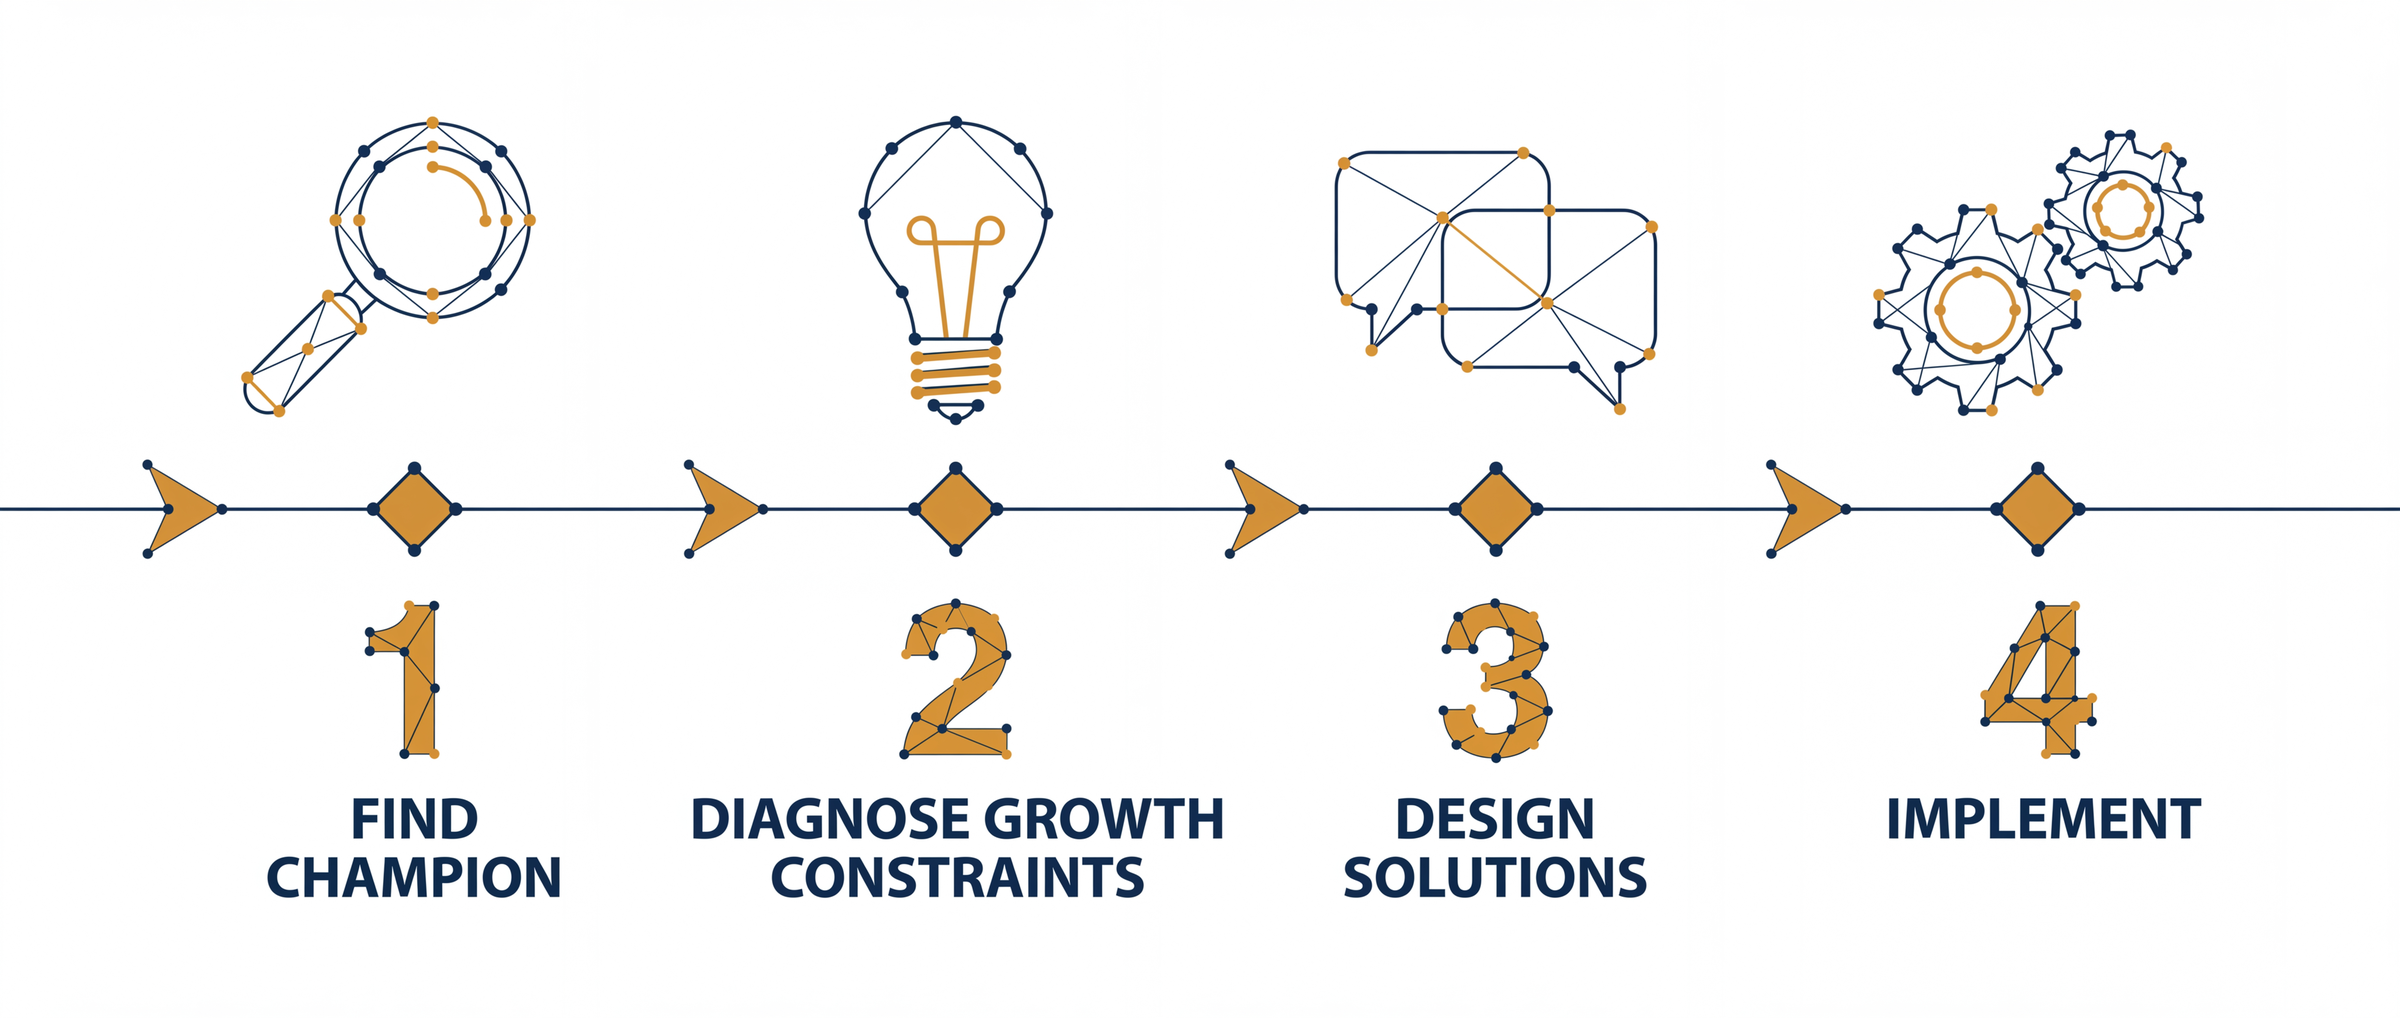
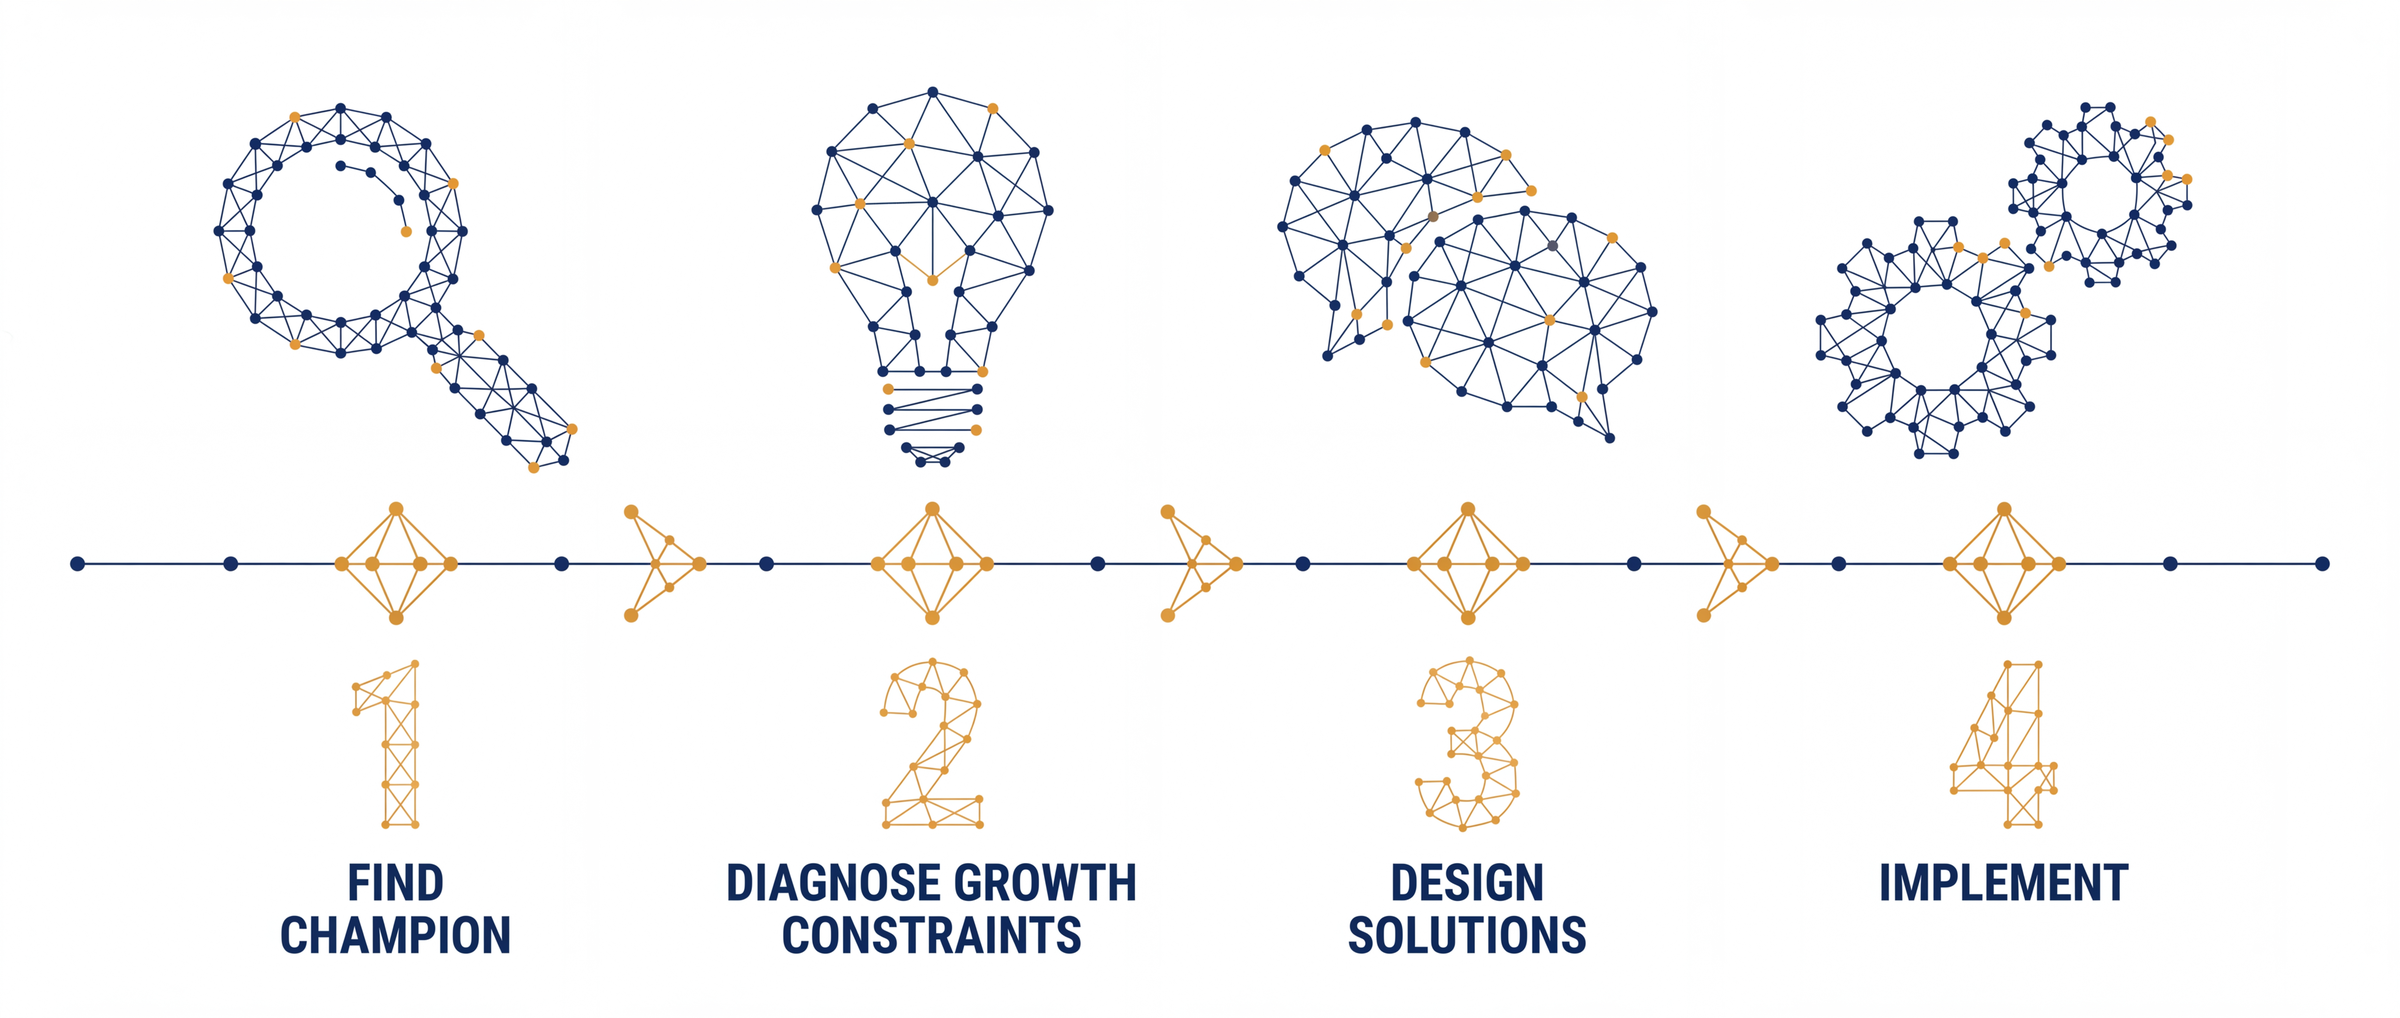
Rework the process diagram to match the rest of the set
Owner rejected the first version as not matching. Two concrete differences, both
now fixed and both measurable rather than matters of taste:

1. SOLID FILLS. In the accepted diagrams every element without exception is an
   open mesh of dots and hairline links. The first version returned the spine
   diamonds, the arrowheads and the numerals as solid filled amber shapes, and
   drew the icons small and dense -- an icon set with dots on it, not a node mesh.
   "Constellation style" in the lead evidently never reached those elements, so
   the prompt now names them individually as meshes.
2. COLOUR BALANCE. The accepted diagram measures 22% amber by ink; the rejected
   version was 34%, and round 2 still rendered whole icons in amber. Navy carries
   every icon, lifted by scattered amber dots, and amber is reserved for the
   spine, arrowheads and numerals. The delivered render measures 23%.

Also passes the accepted diagram in as an image_input style reference, which the
model takes alongside the prompt. That needed a plumbing fix: a base64 data URI
pushes the JSON body past ARG_MAX, so curl gets the body as a file rather than on
the command line.

Labels verified at native resolution again; all four correct.

Claude-Session: https://claude.ai/code/session_0162H81Q7RJ9p5jM9hp3XjJH

diff --git a/scripts/gen_diagram_raster.py b/scripts/gen_diagram_raster.py
@@ -8,7 +8,7 @@
 # Ideogram was the strongest speller in the label bake-off, nano-banana-pro the highest
 # resolution. If none can spell it, the fallback is to generate the artwork text-free and
 # set the labels as real type, exactly as the Tanda labels ended up.
-import json, os, subprocess, sys, time
+import json, os, subprocess, sys, tempfile, time
 from pathlib import Path
 
 ROOT = Path(__file__).resolve().parents[1]
@@ -119,6 +119,41 @@ TEXT_STEPS = (
     "warm amber gold and the labels deep navy. Each phrase appears exactly once, no word is "
     "repeated and no other words are added.")
 
+# Round 2 on the process strip. Round 1 did not match the rest of the set: the spine
+# markers, the arrowheads and the numerals came back as SOLID FILLED amber shapes, and the
+# icons were small and dense. In the accepted diagrams every element without exception is
+# an open mesh of dots and hairline links, drawn large and airy. So this round (a) passes
+# the accepted diagram in as an image_input style reference, and (b) says outright that the
+# markers and numerals are meshes too -- naming the specific elements that came back solid,
+# since "constellation style" alone clearly did not reach them.
+SUBJECT_STEPS2 = (
+    "Match the drawing style of the reference image exactly: every element without "
+    "exception is built from small round dots joined by thin straight hairline links into "
+    "open webs of slender triangles, drawn large and airy with clear space between the "
+    "dots. Nothing is a solid filled shape. "
+    "The picture is a horizontal FOUR-STEP process running left to right, with no people. "
+    "One straight horizontal spine line runs the full width. Four evenly spaced diamond "
+    "markers sit on that spine, and a small arrowhead points right just before each one -- "
+    "the diamonds and the arrowheads are themselves open meshes of amber dots and links, "
+    "with visible dots at each corner. Above the spine, one large icon per step, each an "
+    "open mesh: the first a magnifying glass, the second a lightbulb, the third a pair of "
+    "overlapping speech bubbles, the fourth two interlocking gears. Below the spine, a "
+    "large numeral for each step, the numeral itself drawn as an open mesh of amber dots "
+    "and links, with its label beneath it.")
+
+BALANCE_STEPS = (
+    " Deep navy carries almost everything: all four icons are navy meshes, each lifted by "
+    "only a handful of amber dots scattered among their navy ones. Amber is reserved for "
+    "the spine diamonds, the arrowheads and the four numerals. Roughly one part amber to "
+    "six parts navy overall.")
+
+TEXT_STEPS2 = (
+    " Only the four labels are ordinary solid lettering, in deep navy, correctly spelled: "
+    "FIND CHAMPION under the first step, DIAGNOSE GROWTH CONSTRAINTS under the second, "
+    "DESIGN SOLUTIONS under the third, IMPLEMENT under the fourth. Each phrase appears "
+    "exactly once, no word is repeated and no other words are added. The labels are set "
+    "in bold.")
+
 MODELS = {
     "nano":     ("google/nano-banana-pro",         {"aspect_ratio": "16:9", "resolution": "4K", "output_format": "png"}),
     "ideogram": ("ideogram-ai/ideogram-v3-quality", {"aspect_ratio": "16:9", "style_type": "Design", "magic_prompt_option": "Off"}),
@@ -135,8 +170,14 @@ def gen(tag, model_key, prompt):
     if dest.exists(): print(f"skip {tag}"); return dest
     slug, extra = MODELS[model_key]
     body = json.dumps({"input": dict(prompt=prompt, **extra)})
-    d = curl_json(["-H",f"Authorization: Bearer {TOKEN}","-H","Content-Type: application/json",
-                   "-d",body,f"https://api.replicate.com/v1/models/{slug}/predictions"])
+    bf = Path(tempfile.mkstemp(suffix=".json")[1])
+    bf.write_text(body)
+    try:
+        d = curl_json(["-H",f"Authorization: Bearer {TOKEN}","-H","Content-Type: application/json",
+                       "--data-binary",f"@{bf}",
+                       f"https://api.replicate.com/v1/models/{slug}/predictions"])
+    finally:
+        bf.unlink(missing_ok=True)
     get = (d.get("urls") or {}).get("get")
     if not get: print(f"{tag}: create failed -> {d.get('detail') or d.get('_raw')}"); return None
     for _ in range(150):
